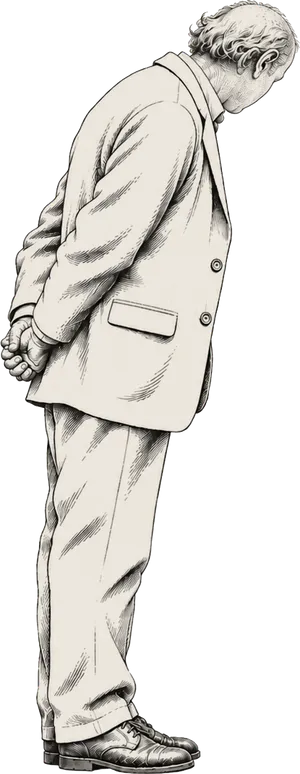
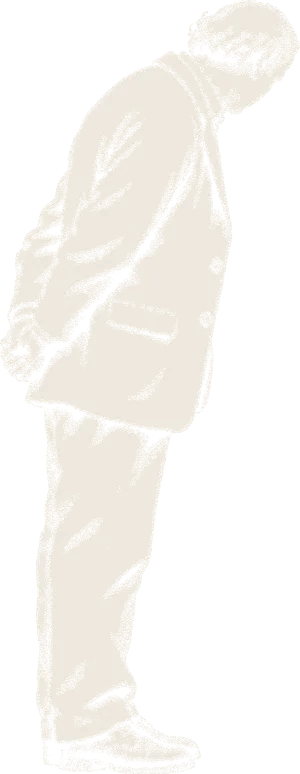
Chess story: the professor printed in two inks, as every.to prints
The engraved professor is now printed for the dark page in two inks
only, the page and the site's ivory: the fine hatching is softened away
so only the large shapes remain, the shadows become stipple, and his
face, a matter of small details, falls away with them. make-print.cjs
does this the same way for every figure; the dark ink is transparent,
so the page shows through it.

diff --git a/scripts/stories/chess/README.md b/scripts/stories/chess/README.md
@@ -73,11 +73,13 @@ in a large and a phone width:
   48) are dropped and it is trimmed; made at 1000 and 600 px wide.
 - `professor`: the professor at the London chess club, an engraving made with
   a GPT image model to the prompts in the data-stories repository
-  (`chess-story/visuals/PROMPTS.md`), faceless on purpose. Made by
-  `make-figures.cjs`, which cuts a figure out of the white around it, keeps the
-  paper inside it warmed to the site's ivory, and never inverts it:
+  (`chess-story/visuals/PROMPTS.md`), his face turned away on purpose. Printed
+  for the page by `make-print.cjs` in two inks as every.to prints its figures:
+  the fine hatching softened away, the shadows turned to stipple, and only the
+  site's ivory drawn, so the page shows through the dark. Every figure goes
+  through the same settings:
 
-      node make-figures.cjs <repo>/node_modules/sharp <repo>/public/images/stories/chess "professor|input.png|520,300"
+      node make-print.cjs <repo>/node_modules/sharp <repo>/public/images/stories/chess "professor|input.png|520,300"
 
 - `phone`: a phone with a Chess.com game about to begin, supplied by the
   author. Made at `800,480` from a copy in which the opponent's username and
